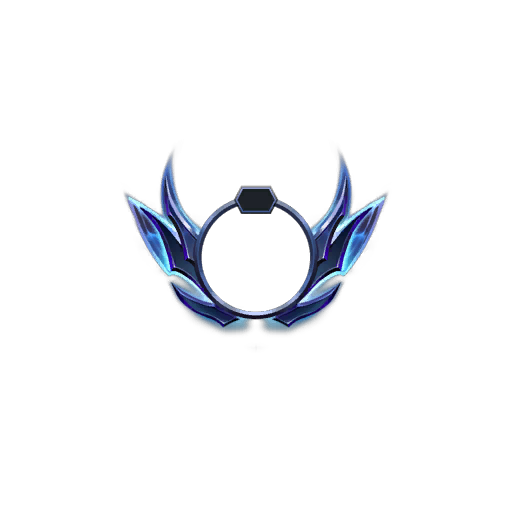
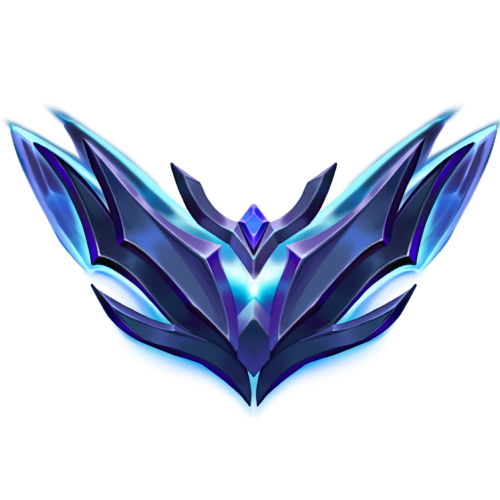
Use complete ranked emblems

diff --git a/app/globals.css b/app/globals.css
@@ -6,7 +6,7 @@
 .ready-card{width:min(760px,70%);height:370px;margin:0 auto 42px;padding:50px;display:flex;flex-direction:column;align-items:center;text-align:center;border-color:var(--gold-dark)}.ready-card h2{font-family:Beaufort,serif;font-size:38px;margin:0}.ready-card>b{color:var(--gold);margin-top:5px}.ready-card>strong{font-family:Beaufort,serif;font-size:58px;margin:35px 0 2px}.ready-card>small{color:var(--muted);font-size:11px}.ready-progress{width:380px;margin:25px 0}.ready-progress i{width:80%;background:var(--green)}.ready-card>div:last-child{display:flex;gap:18px}.ready-players{height:80px;display:grid;grid-template-columns:repeat(5,1fr);align-items:center;padding:0 30px}.ready-players span{font-size:11px;text-align:center;color:var(--muted)}
 .lobby-grid{display:grid;grid-template-columns:1fr 112px 1fr;gap:20px}.team-card{height:508px;padding:28px}.team-row{height:76px;border-bottom:1px solid var(--line-soft);display:grid;grid-template-columns:80px 1fr 90px;align-items:center}.team-row>b{color:var(--gold);font-size:11px}.team-row strong{font-size:15px}.team-row span{color:var(--muted);font-size:11px}.lobby-status{padding-top:45px;display:flex;flex-direction:column;gap:26px}.lobby-status .card{height:290px;display:flex;align-items:center;justify-content:center;flex-direction:column}.lobby-status small{color:var(--muted)}.lobby-status strong{font-family:Beaufort,serif;font-size:34px;margin:38px 0 14px}.lobby-status b{color:var(--gold);font-size:18px}.lobby-status .button{min-width:0;width:100%;padding:0}
 .tabs{display:flex;gap:24px;margin-bottom:28px}.tabs button{height:38px;border:0;border-bottom:2px solid transparent;background:none;color:var(--text);font-size:12px;cursor:pointer}.tabs button.active{border-bottom-color:var(--gold)}.match-table{display:flex;flex-direction:column;gap:14px}.match-head,.match-line{display:grid;grid-template-columns:110px 220px 1fr 220px 1fr 180px;align-items:center;padding:0 20px}.match-head{height:38px;color:var(--muted);font-size:10px}.match-line{height:54px;border:1px solid var(--line);background:var(--surface);font-size:12px}.match-line span{color:var(--muted)}
-.profile-page>.page-title{margin-bottom:26px}.profile-layout{display:grid;grid-template-columns:190px minmax(0,1fr);gap:28px}.profile-sidebar{border-right:1px solid var(--line);padding-right:22px}.profile-identity{display:flex;align-items:center;flex-direction:column;text-align:center;padding:8px 0 28px}.profile-avatar{position:relative;width:112px;height:112px;border:2px solid var(--gold-dark);border-radius:50%;box-shadow:0 0 0 5px #101419}.profile-avatar-image{width:100%;height:100%;object-fit:cover;border-radius:50%}.profile-avatar span{position:absolute;left:50%;bottom:-11px;transform:translateX(-50%);min-width:36px;height:22px;display:grid;place-items:center;border:1px solid var(--gold-dark);background:#080b0d;color:var(--gold);font-family:Beaufort,serif;font-size:10px}.profile-identity h2{font-family:Beaufort,serif;font-size:22px;margin:24px 0 2px}.profile-identity>b{color:var(--muted);font-size:10px}.profile-identity>small{font-size:9px;margin-top:8px}.profile-sidebar nav{display:flex;flex-direction:column}.profile-sidebar nav button{height:46px;border:0;border-left:2px solid transparent;background:none;color:var(--muted);text-align:left;padding:0 18px;font-size:10px;cursor:pointer}.profile-sidebar nav button.active{border-left-color:var(--gold);background:#11120f;color:var(--text)}.profile-main{display:flex;flex-direction:column;gap:18px}.profile-ranks{min-height:146px;display:grid;grid-template-columns:1.2fr 1.2fr .8fr .8fr}.profile-ranks>div{padding:27px 24px;border-right:1px solid var(--line-soft)}.profile-ranks>div:last-child{border:0}.rank-overview{display:flex;align-items:center;gap:14px;overflow:hidden}.rank-overview>div,.rank-number{display:flex;flex-direction:column;gap:6px}.rank-emblem{width:78px;height:78px;display:grid;place-items:center;overflow:hidden;flex:none}.rank-emblem img{width:132px;height:132px;max-width:none;object-fit:contain}.profile-ranks small{color:var(--muted);font-size:9px;letter-spacing:.05em}.profile-ranks strong{font-family:Beaufort,serif;font-size:18px}.profile-ranks b{color:var(--gold);font-size:10px}.rank-number strong{font-size:32px}.rank-number{justify-content:center}.profile-content{display:grid;grid-template-columns:minmax(0,1fr) 260px;gap:18px}.profile-center{display:flex;flex-direction:column;gap:18px}.preferred-roles,.top-champions,.recent-summary{padding:24px}.preferred-roles h3,.top-champions h3,.recent-summary h3{font-family:Beaufort,serif;font-size:12px;letter-spacing:.03em;margin:0 0 18px}.preferred-roles>div{display:grid;grid-template-columns:repeat(5,1fr);border:1px solid var(--line-soft)}.preferred-roles>div span{min-height:88px;border-right:1px solid var(--line-soft);display:flex;align-items:center;justify-content:center;flex-direction:column;gap:6px}.preferred-roles>div span:last-child{border:0}.preferred-roles img{filter:sepia(.5) saturate(.8) brightness(1.2);opacity:.9}.preferred-roles b{font-size:9px}.preferred-roles strong{color:var(--gold);font-size:10px}.preferred-roles>.text-button{display:block;margin:14px 0 0 auto}.top-champions>div{display:grid;grid-template-columns:repeat(5,1fr);gap:12px}.top-champions article{display:flex;align-items:center;flex-direction:column;text-align:center}.champion-portrait{width:66px;height:66px;object-fit:cover;border:1px solid var(--gold-dark);border-radius:50%}.top-champions strong{font-size:11px;margin-top:9px}.top-champions b{color:var(--gold);font-size:11px;margin-top:4px}.top-champions small{color:var(--muted);font-size:9px;margin-top:2px}.recent-summary{min-height:100%}.recent-summary article{min-height:96px;display:flex;align-items:center;gap:13px;border-bottom:1px solid var(--line-soft)}.recent-summary article>.champion-portrait{width:52px;height:52px;flex:none}.recent-summary article span{display:flex;flex-direction:column;gap:4px}.recent-summary article strong{font-size:10px}.recent-summary article b{font-size:10px}.recent-summary article small{color:var(--muted);font-size:9px}.recent-summary>.text-button{display:block;margin:20px 0 0 auto}
+.profile-page>.page-title{margin-bottom:26px}.profile-layout{display:grid;grid-template-columns:190px minmax(0,1fr);gap:28px}.profile-sidebar{border-right:1px solid var(--line);padding-right:22px}.profile-identity{display:flex;align-items:center;flex-direction:column;text-align:center;padding:8px 0 28px}.profile-avatar{position:relative;width:112px;height:112px;border:2px solid var(--gold-dark);border-radius:50%;box-shadow:0 0 0 5px #101419}.profile-avatar-image{width:100%;height:100%;object-fit:cover;border-radius:50%}.profile-avatar span{position:absolute;left:50%;bottom:-11px;transform:translateX(-50%);min-width:36px;height:22px;display:grid;place-items:center;border:1px solid var(--gold-dark);background:#080b0d;color:var(--gold);font-family:Beaufort,serif;font-size:10px}.profile-identity h2{font-family:Beaufort,serif;font-size:22px;margin:24px 0 2px}.profile-identity>b{color:var(--muted);font-size:10px}.profile-identity>small{font-size:9px;margin-top:8px}.profile-sidebar nav{display:flex;flex-direction:column}.profile-sidebar nav button{height:46px;border:0;border-left:2px solid transparent;background:none;color:var(--muted);text-align:left;padding:0 18px;font-size:10px;cursor:pointer}.profile-sidebar nav button.active{border-left-color:var(--gold);background:#11120f;color:var(--text)}.profile-main{display:flex;flex-direction:column;gap:18px}.profile-ranks{min-height:146px;display:grid;grid-template-columns:1.2fr 1.2fr .8fr .8fr}.profile-ranks>div{padding:27px 24px;border-right:1px solid var(--line-soft)}.profile-ranks>div:last-child{border:0}.rank-overview{display:flex;align-items:center;gap:14px;overflow:hidden}.rank-overview>div,.rank-number{display:flex;flex-direction:column;gap:6px}.rank-emblem{width:86px;height:78px;display:grid;place-items:center;flex:none}.rank-emblem img{width:86px;height:86px;object-fit:contain}.profile-ranks small{color:var(--muted);font-size:9px;letter-spacing:.05em}.profile-ranks strong{font-family:Beaufort,serif;font-size:18px}.profile-ranks b{color:var(--gold);font-size:10px}.rank-number strong{font-size:32px}.rank-number{justify-content:center}.profile-content{display:grid;grid-template-columns:minmax(0,1fr) 260px;gap:18px}.profile-center{display:flex;flex-direction:column;gap:18px}.preferred-roles,.top-champions,.recent-summary{padding:24px}.preferred-roles h3,.top-champions h3,.recent-summary h3{font-family:Beaufort,serif;font-size:12px;letter-spacing:.03em;margin:0 0 18px}.preferred-roles>div{display:grid;grid-template-columns:repeat(5,1fr);border:1px solid var(--line-soft)}.preferred-roles>div span{min-height:88px;border-right:1px solid var(--line-soft);display:flex;align-items:center;justify-content:center;flex-direction:column;gap:6px}.preferred-roles>div span:last-child{border:0}.preferred-roles img{filter:sepia(.5) saturate(.8) brightness(1.2);opacity:.9}.preferred-roles b{font-size:9px}.preferred-roles strong{color:var(--gold);font-size:10px}.preferred-roles>.text-button{display:block;margin:14px 0 0 auto}.top-champions>div{display:grid;grid-template-columns:repeat(5,1fr);gap:12px}.top-champions article{display:flex;align-items:center;flex-direction:column;text-align:center}.champion-portrait{width:66px;height:66px;object-fit:cover;border:1px solid var(--gold-dark);border-radius:50%}.top-champions strong{font-size:11px;margin-top:9px}.top-champions b{color:var(--gold);font-size:11px;margin-top:4px}.top-champions small{color:var(--muted);font-size:9px;margin-top:2px}.recent-summary{min-height:100%}.recent-summary article{min-height:96px;display:flex;align-items:center;gap:13px;border-bottom:1px solid var(--line-soft)}.recent-summary article>.champion-portrait{width:52px;height:52px;flex:none}.recent-summary article span{display:flex;flex-direction:column;gap:4px}.recent-summary article strong{font-size:10px}.recent-summary article b{font-size:10px}.recent-summary article small{color:var(--muted);font-size:9px}.recent-summary>.text-button{display:block;margin:20px 0 0 auto}
 .leaderboard-table{display:flex;flex-direction:column;gap:14px}.leaderboard-head,.leaderboard-row{display:grid;grid-template-columns:70px minmax(220px,1.5fr) 1fr 1fr 1fr;align-items:center;padding:0 24px}.leaderboard-head{height:38px;color:var(--muted);font-size:10px}.leaderboard-row{height:66px;border:1px solid var(--line);background:var(--surface);font-size:13px}.leaderboard-row>b:first-child{color:var(--gold);font-family:Beaufort,serif;font-size:17px}.leaderboard-row strong{display:flex;align-items:center;gap:10px}.leaderboard-row strong small{border:1px solid var(--gold-dark);color:var(--gold);font-size:8px;padding:3px 6px}.leaderboard-row span{color:var(--muted)}.leaderboard-row.is-you{border-color:var(--gold-dark);background:#131008}
 .download-page{display:flex;flex-direction:column;gap:26px}.download-page>.page-title{margin-bottom:4px}.download-hero{min-height:410px;display:grid;grid-template-columns:minmax(0,1.2fr) minmax(420px,.8fr);overflow:hidden;background:radial-gradient(circle at 72% 15%,rgba(189,145,77,.13),transparent 34%),linear-gradient(135deg,#0c1114 0%,#080b0d 62%,#111008 100%)}.download-copy{padding:48px 52px}.release-label{display:flex;align-items:center;color:var(--green);font-size:10px;font-weight:600;letter-spacing:.06em}.release-label i,.console-body>strong i{width:7px;height:7px;border-radius:50%;background:var(--green);box-shadow:0 0 12px rgba(60,163,109,.8);margin-right:9px}.download-copy h2{font-family:Beaufort,serif;font-size:44px;line-height:1.02;margin:30px 0 16px;letter-spacing:.02em}.download-copy>p{max-width:600px;font-size:15px;line-height:1.7}.download-actions{display:flex;align-items:center;gap:26px;margin-top:38px}.download-cta{display:inline-flex;align-items:center;justify-content:center;text-decoration:none}.download-actions>span{display:flex;flex-direction:column;gap:5px}.download-actions strong{font-size:10px}.download-actions small{color:var(--muted);font-size:10px}.watcher-console{align-self:center;width:calc(100% - 48px);min-height:292px;border:1px solid var(--gold-dark);background:#070a0c;box-shadow:0 24px 60px rgba(0,0,0,.45)}.console-bar{height:42px;border-bottom:1px solid var(--line);display:grid;grid-template-columns:1fr 28px 28px 28px;align-items:center;padding:0 12px 0 18px;color:var(--muted);font-size:9px}.console-bar b{font-weight:400;text-align:center}.console-body{padding:28px;display:flex;flex-direction:column;gap:16px;font-family:Spiegel,monospace}.console-body>small{color:var(--muted);font-size:9px}.console-body>strong{display:flex;align-items:center;color:var(--green);font-size:13px}.console-body>span{display:grid;grid-template-columns:150px 1fr;color:var(--text);font-size:10px}.console-body>span b{color:var(--muted);font-weight:400}.console-body>p{color:var(--gold);font-size:10px;margin-top:4px}.watcher-features{display:grid;grid-template-columns:repeat(3,1fr);gap:26px}.watcher-features .card{min-height:180px;padding:28px}.watcher-features .card>b{color:var(--gold);font-family:Beaufort,serif;font-size:14px}.watcher-features h3{font-family:Beaufort,serif;font-size:15px;margin:24px 0 10px}.watcher-features p{line-height:1.6;font-size:12px}.install-card{padding:32px 38px;display:grid;grid-template-columns:260px 1fr;gap:34px;align-items:center}.install-card h2{font-family:Beaufort,serif;font-size:22px;margin:10px 0 0}.install-card ol{list-style:none;padding:0;margin:0;display:grid;grid-template-columns:repeat(3,1fr);gap:18px}.install-card li{display:flex;align-items:center;gap:14px;border-left:1px solid var(--line);padding-left:18px}.install-card li>b{color:var(--gold);font-family:Beaufort,serif}.install-card li span{display:flex;flex-direction:column;gap:5px}.install-card li strong{font-size:10px}.install-card li small{color:var(--muted);font-size:10px}.install-card>p{grid-column:2;color:var(--muted);font-size:9px;margin-top:-12px}
 .settings-grid{display:grid;grid-template-columns:250px 1fr;gap:36px}.settings-nav{height:570px;padding:20px 0;display:flex;flex-direction:column}.settings-nav button{height:54px;border:0;border-left:2px solid transparent;background:none;color:var(--muted);text-align:left;padding:0 26px;font-size:11px;cursor:pointer}.settings-nav button.active{border-left-color:var(--gold);color:var(--gold);background:#11120f}.settings-card{height:570px;padding:30px}.settings-card h2{font-family:Beaufort,serif;margin:0 0 8px}.companion-status{height:90px;border:1px solid var(--line);margin:30px 0 18px;padding:0 22px;display:flex;justify-content:space-between;align-items:center}.companion-status span{display:flex;flex-direction:column;gap:6px}.companion-status small,.companion-status>b{color:var(--muted);font-size:11px}.setting-row{width:100%;height:54px;border:0;background:none;color:var(--text);display:flex;justify-content:space-between;align-items:center;padding:0 22px;cursor:pointer}.setting-row i{width:84px;height:30px;border:1px solid var(--line);border-radius:18px;color:var(--muted);font-size:10px;font-style:normal;display:grid;place-items:center}.setting-row i.on{background:#266442;border-color:#3a875c;color:#8bd4aa}.settings-actions{display:flex;gap:16px;margin:28px 22px 0}
